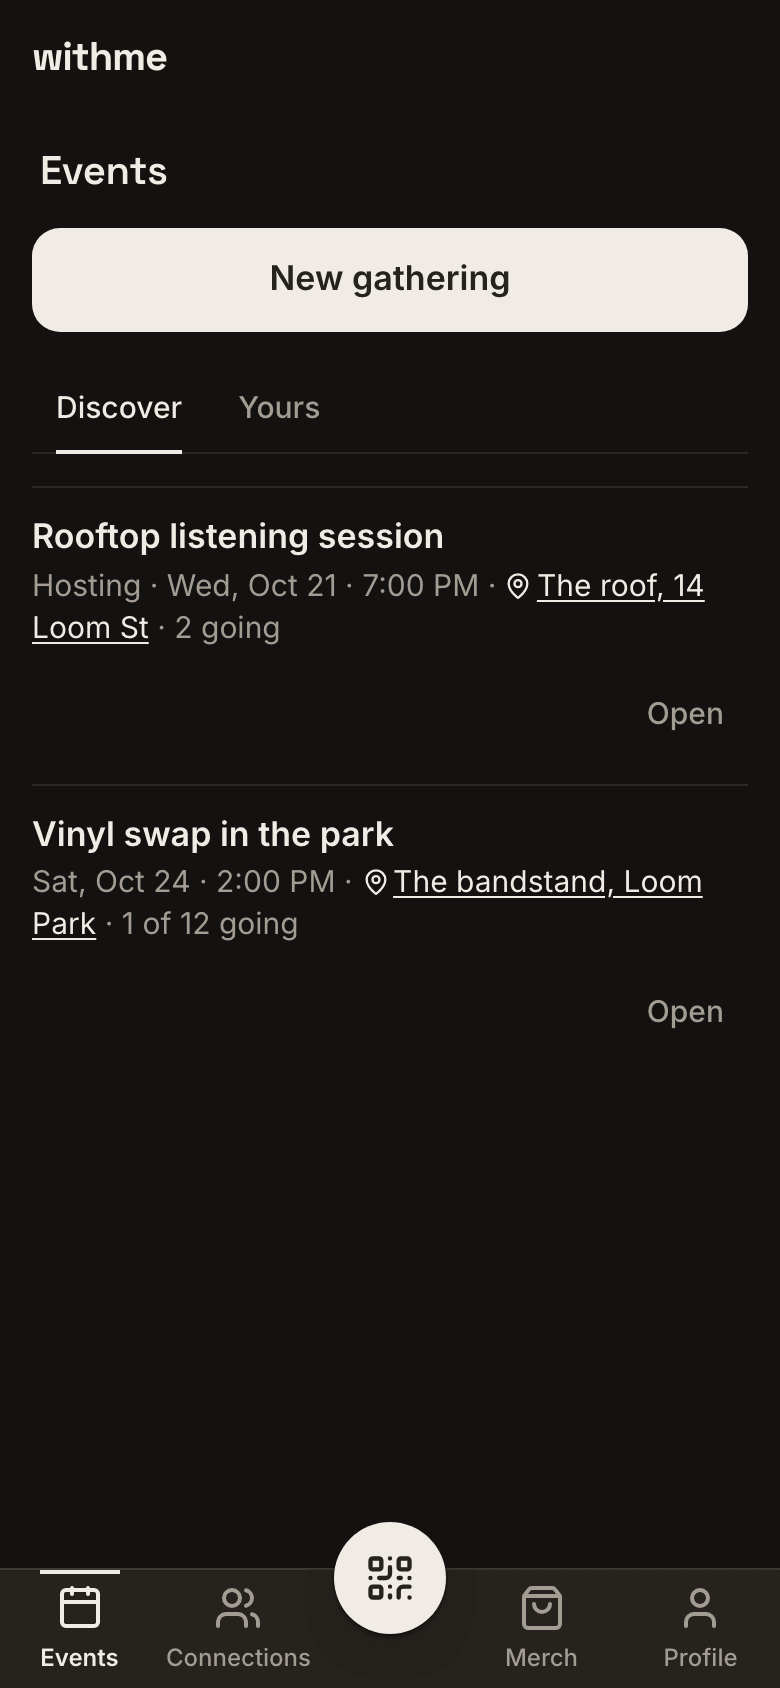
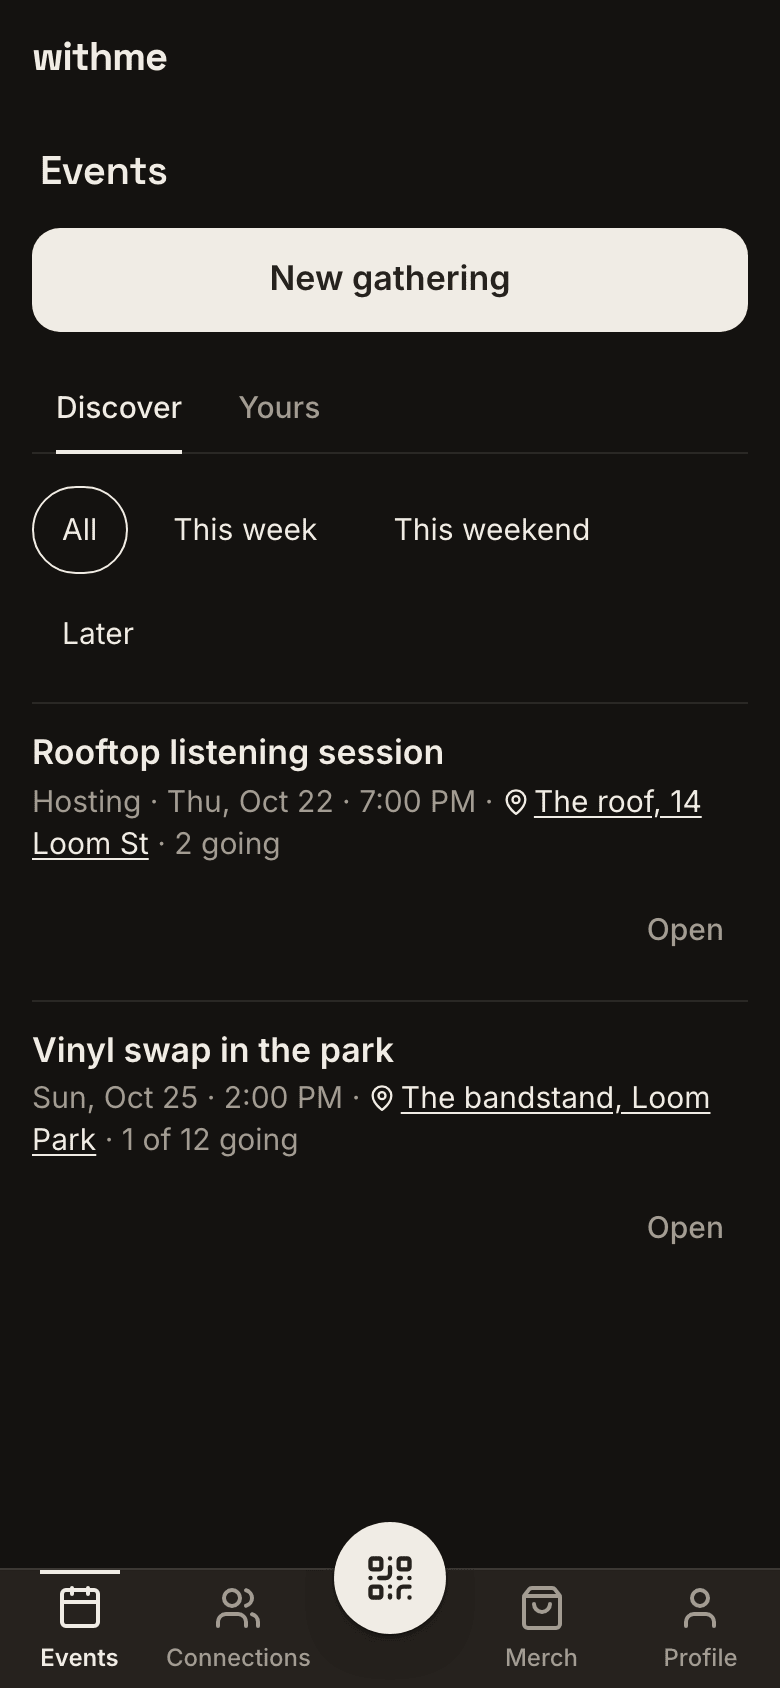
README: the Events screenshot shows the when filter (#118)
Recaptures the fourth README screenshot (Events) in light and dark from
current main, so it shows the All / This week / This weekend / Later
filter from #112. Same Playwright setup as before (390x844 @2x, seeded
demo, signed in as Ada); alt text updated. At phone width "Later" wraps
to a second row, which is how the app renders it.

README and two images.

🤖 Generated with [Claude Code](https://claude.com/claude-code)

<!-- This is an auto-generated comment: release notes by coderabbit.ai
-->

## Summary by CodeRabbit

- **Documentation**
- Updated the Events screenshot’s alternative text to describe its
Discover and Yours tabs, along with the available date filters.

<!-- end of auto-generated comment: release notes by coderabbit.ai -->

diff --git a/README.md b/README.md
@@ -39,7 +39,7 @@ a way to remix the idea for whatever you love.
     <td align="center" width="25%">
       <picture>
         <source media="(prefers-color-scheme: dark)" srcset="docs/images/readme/4-events-dark.png">
-        <img src="docs/images/readme/4-events-light.png" alt="The Events tab with Discover and Yours tabs, listing two gatherings with their times, places and headcounts" width="200">
+        <img src="docs/images/readme/4-events-light.png" alt="The Events tab with Discover and Yours tabs and All, This week, This weekend and Later filters, listing two gatherings with their times, places and headcounts" width="200">
       </picture>
       <br><sub>Events: discover gatherings, or see yours</sub>
     </td>
